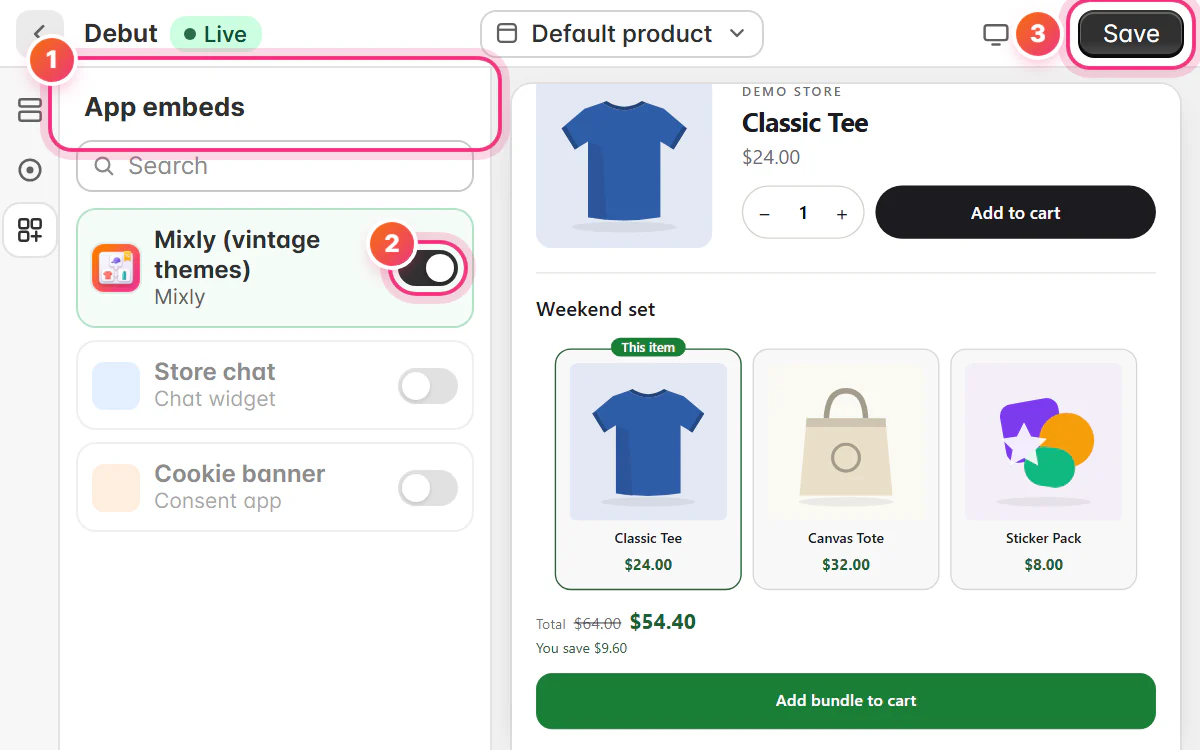
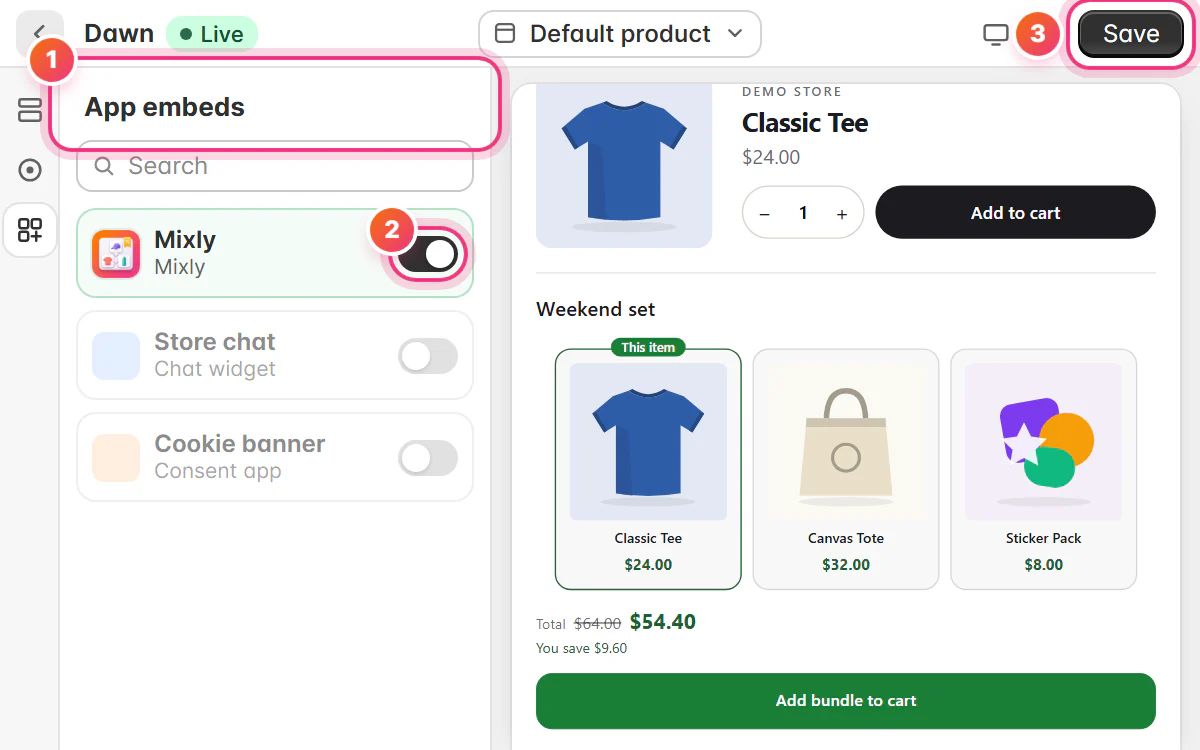
teach mixly and tierly docs that one app embed now covers every theme
Both apps replaced their vintage-only embed with an embed named after the app that works on every theme. The docs now lead with that switch and treat app blocks as optional. The embed guide animations are redrawn on Dawn with the new names.

diff --git a/src/app/tierly/docs/page.tsx b/src/app/tierly/docs/page.tsx
@@ -86,29 +86,29 @@ const steps = [
 
 const setupPaths = [
   {
+    icon: SlidersIcon,
+    badge: 'Recommended',
+    title: 'Turn on the Tierly app embed',
+    note: 'One switch, every theme — Dawn, Horizon, older vintage themes and heavily customised builds alike.',
+    steps: [
+      'On your Tierly dashboard, click Turn on Tierly. The theme editor opens on App embeds with Tierly already switched on.',
+      'Click Save. The price table shows above the Add to cart button on product pages, and the cart upsell below your items on the cart page.',
+      'Use the Show on product pages and Show on the cart page switches to choose where Tierly appears.',
+      'If it lands in the wrong place, set the Product page and Cart page CSS selectors under Placement — .product-form and .cart__footer are typical.',
+      'To hide Tierly from your store, switch the embed off and save. Pause an offer in Tierly to stop its discount too.',
+    ],
+  },
+  {
     icon: LayersIcon,
-    badge: 'Most themes',
-    title: 'Online Store 2.0 themes',
-    note: 'Dawn, Refresh, Sense, and almost every theme sold since 2021.',
+    badge: 'Optional',
+    title: 'Place an app block yourself',
+    note: 'For an exact spot on an Online Store 2.0 theme. The embed steps aside on any page that has a Tierly block.',
     steps: [
       'In your Shopify admin go to Online Store → Themes → Customize.',
       'Switch the top template selector to Products → Default product.',
       'Click Add block in the product information area, open the Apps group, and pick Tierly price table.',
       'Drag it where you want it — just under the quantity selector works well — then Save.',
       'Optional: on the Cart template, add the Tierly cart upsell block to nudge shoppers who are one unit away from the next tier.',
-    ],
-  },
-  {
-    icon: SlidersIcon,
-    badge: 'Vintage themes',
-    title: 'Online Store 1.0 themes',
-    note: 'Older themes such as Debut, Brooklyn, or a heavily customised build that cannot host app blocks.',
-    steps: [
-      'Go to Online Store → Themes → Customize.',
-      'Open App embeds in the left sidebar.',
-      'Toggle on Tierly (vintage themes), then Save.',
-      'The price table is inserted into your product and cart pages automatically — there is no block to position.',
-      'If the table lands in the wrong place, set the Product page and Cart page CSS selectors under Placement — .product-form and .cart__footer are typical. Leave them blank to auto-detect.',
     ],
   },
 ]
@@ -146,7 +146,7 @@ const blockSettings: { title: string; text: ReactNode }[] = [
   },
   {
     title: 'Clickable tiers',
-    text: 'On by default: clicking a tier sets the quantity field to that tier minimum, so a shopper reaches the saving in one tap. Turn it off if your theme uses an unusual quantity input. It applies to the price table and the vintage embed — the cart upsell has no equivalent.',
+    text: 'On by default: clicking a tier sets the quantity field to that tier minimum, so a shopper reaches the saving in one tap. Turn it off if your theme uses an unusual quantity input. It applies to the price table, whether it comes from the app embed or the block — the cart upsell has no equivalent.',
   },
   {
     title: '“Ends in” countdown',
@@ -223,11 +223,11 @@ const faqs: { q: string; a: ReactNode }[] = [
   },
   {
     q: 'The block is on my product page but shows nothing',
-    a: 'In the theme editor — and only there, never for shoppers — Tierly prints the reason it rendered nothing, so you rarely have to guess. It will tell you that no pricing rules have been published to the store yet, that this product has no rule of its own and no store-wide rule covers it, that the product is excluded from your store-wide rule, that the end date has already passed, or that the tiers cannot be shown in the currency the storefront is currently displaying. On a vintage theme it also reports when it could not read the product on the page, when every tier works out at or above the current price, and when the page is neither a product nor a cart page.',
+    a: 'In the theme editor — and only there, never for shoppers — Tierly prints the reason it rendered nothing, so you rarely have to guess. It will tell you that no pricing rules have been published to the store yet, that this product has no rule of its own and no store-wide rule covers it, that the product is excluded from your store-wide rule, that the end date has already passed, or that the tiers cannot be shown in the currency the storefront is currently displaying. The app embed also reports when it could not read the product on the page, when every tier works out at or above the current price, and when the page is neither a product nor a cart page.',
   },
   {
-    q: 'The price table block does not appear in the theme editor',
-    a: 'App blocks only show on Online Store 2.0 themes, and only after the app is installed on the store. If the Apps group is missing when you click Add block, your theme is a vintage 1.0 theme — use the app embed route instead.',
+    q: 'I cannot find the Tierly price table block in the theme editor',
+    a: 'App blocks only show on Online Store 2.0 themes, and only after the app is installed on the store. If the Apps group is missing when you click Add block, your theme is a vintage 1.0 theme — the app embed works on it and needs no block: switch Tierly on under App embeds.',
   },
   {
     q: 'Some tiers vanish when a shopper switches currency',
@@ -256,7 +256,7 @@ const faqs: { q: string; a: ReactNode }[] = [
   },
   {
     q: 'Does Tierly slow my storefront down?',
-    a: 'It depends which path your theme uses, and neither one blocks the page. On an Online Store 2.0 theme the price table block is rendered server-side in Liquid, so it arrives with the rest of the page and causes no layout shift. On a vintage theme the app embed loads a small deferred script that reads your product and cart JSON after the page has painted, so the table appears a moment after everything else. Either way there is no blocking third-party script on your product pages.',
+    a: 'It depends which path you use, and neither one blocks the page. The price table block is rendered server-side in Liquid, so it arrives with the rest of the page and causes no layout shift. The app embed loads a small deferred script that reads your product and cart JSON after the page has painted, so the table appears a moment after everything else. Either way there is no blocking third-party script on your product pages.',
   },
   {
     q: 'What happens to my discounts if I uninstall the app?',
@@ -435,8 +435,8 @@ const TierlyDocsPage = () => (
         <Section
           id="setup"
           eyebrow="Setup"
-          title="Add it to your theme"
-          lead="Installing the app is enough for discounts to apply at checkout. Adding the block is what makes the savings visible on the product page — and that is where the extra units come from. The Finish setup checklist on your dashboard has an “Add it for me” button that opens the theme editor in the right place, and the Store health card afterwards tells you whether the block is on your published theme."
+          title="Turn it on in your theme"
+          lead="Installing the app is enough for discounts to apply at checkout. Turning Tierly on in your theme is what makes the savings visible on the product page — and that is where the extra units come from. The Finish setup checklist on your dashboard has a “Turn on Tierly” button that opens the theme editor on App embeds, and the Store health card afterwards tells you whether Tierly is on in your published theme."
         >
           <div className="grid gap-4 md:grid-cols-2">
             {setupPaths.map(({ icon: Icon, badge, title, note, steps }) => (
@@ -467,29 +467,22 @@ const TierlyDocsPage = () => (
 
           <Figure
             className="mt-8"
-            src="/guides/tierly/theme-editor.webp"
+            src="/guides/tierly/theme-embed.webp"
             width={1200}
             height={750}
-            alt="The setup guide step Add the price table to your product page, whose Add it for me button opens the theme editor on the Default product template with the Tierly price table already added. The cursor drags the block under Price, the quantity breaks move under the price in the preview, then the cursor clicks Save."
-            caption="On an Online Store 2.0 theme: Add block, Apps, Tierly price table, then Save."
+            alt="The setup guide step Turn on Tierly in your theme. Its Turn on Tierly button opens the theme editor on App embeds, the cursor switches on Tierly, and the quantity breaks appear on the product page in the preview. Then it clicks Save."
+            caption="One switch under App embeds turns Tierly on for product and cart pages. The preview shows the price table as soon as it is on."
           />
 
           <Figure
             className="mt-6"
-            src="/guides/tierly/theme-embed.webp"
+            src="/guides/tierly/theme-editor.webp"
             width={1200}
             height={750}
-            alt="The setup guide step Turn on the Tierly app embed on a vintage theme. Its Turn on the embed button opens the theme editor on App embeds, the cursor switches on Tierly (vintage themes), and the quantity breaks appear on the product page in the preview."
-            caption="On a vintage theme: switch on Tierly (vintage themes) under App embeds, then save."
+            alt="The cursor drags the Tierly price table block under Price on the Default product template, the quantity breaks move under the price in the preview, then the cursor clicks Save."
+            caption="Optional, on an Online Store 2.0 theme: Add block, Apps, Tierly price table, then Save — for when you want the table in an exact spot."
           />
 
-          <div className="mt-4">
-            <Callout tone="warn" title="Enable one path, not both">
-              On an Online Store 2.0 theme, use the app blocks. The vintage embed exists for themes
-              that cannot host them. If both end up switched on, Tierly suppresses the embed so
-              nothing renders twice.
-            </Callout>
-          </div>
         </Section>
 
         <Section

diff --git a/src/app/mixly/docs/page.tsx b/src/app/mixly/docs/page.tsx
@@ -132,30 +132,29 @@ const discountModes = [
 
 const setupPaths = [
   {
+    icon: SlidersIcon,
+    badge: 'Recommended',
+    title: 'Turn on the Mixly app embed',
+    note: 'One switch, every theme — Dawn, Horizon, older vintage themes and heavily customised builds alike.',
+    steps: [
+      'On your Mixly home screen, click Turn on in theme editor. The theme editor opens on App embeds with Mixly already switched on.',
+      'Click Save. Bundles now show below the Add to cart button on product pages, and below your items on the cart page.',
+      'Use the Show on product pages and Show on the cart page switches to choose where Mixly appears.',
+      'If it lands in the wrong place, put a CSS selector in Product page: CSS selector to insert after (for example .product-form) or the matching Cart page field (for example .cart__footer).',
+      'To hide Mixly from your store, switch the embed off and save. Pause a bundle in Mixly to stop its discount too.',
+    ],
+  },
+  {
     icon: LayersIcon,
-    badge: 'Most themes',
-    title: 'Online Store 2.0 themes',
-    note: 'Dawn, Refresh, Sense, and almost every theme sold since 2021.',
+    badge: 'Optional',
+    title: 'Place an app block yourself',
+    note: 'For an exact spot on an Online Store 2.0 theme. The embed steps aside on any page that has a Mixly block.',
     steps: [
       'In your Shopify admin go to Online Store → Themes → Customize.',
       'Switch the top template selector to Products → Default product.',
       'Click Add block in the product information area, open the Apps group, and pick Mixly bundle offer.',
-      'Drag it where you want it — just under the add-to-cart button works well — then Save.',
+      'Drag it where you want it, then Save.',
       'Optional: switch the template selector to Cart, add the Mixly cart bundle block, and set Maximum offers to show (1 to 3, two by default).',
-    ],
-  },
-  {
-    icon: SlidersIcon,
-    badge: 'Vintage themes',
-    title: 'Online Store 1.0 themes',
-    note: 'Older themes such as Debut or Brooklyn, and heavily customised builds that cannot host app blocks.',
-    steps: [
-      'Go to Online Store → Themes → Customize.',
-      'Open App embeds in the left sidebar.',
-      'Toggle on Mixly (vintage themes), then Save.',
-      'Mixly inserts itself after your add-to-cart form and your cart form automatically — there is no block to position.',
-      'If it lands in the wrong place, put a CSS selector in Product page: CSS selector to insert after (for example .product-form) or the matching Cart page field (for example .cart__footer).',
-      'Leaving the embed on while you switch to a newer theme is safe: it hides itself on any page where a Mixly app block is already rendering.',
     ],
   },
 ]
@@ -253,7 +252,6 @@ const blockReasons = [
   'Cart is empty. Add a product to preview this.',
   'No live bundle applies to this cart.',
   'Shows on product and cart pages only.',
-  'Buy X get Y shows on the product page, not the cart, on vintage themes.',
 ]
 
 const stackingSettings: { label: string; state: 'On' | 'Off'; text: string }[] = [
@@ -576,8 +574,8 @@ const MixlyDocsPage = () => (
         <Section
           id="setup"
           eyebrow="Setup"
-          title="Add it to your theme"
-          lead="Activating a bundle is enough for the discount to apply at checkout. Adding the block is what makes the offer visible before the cart — and that is where the extra items come from."
+          title="Turn it on in your theme"
+          lead="Activating a bundle is enough for the discount to apply at checkout. Turning Mixly on in your theme is what makes the offer visible before the cart — and that is where the extra items come from."
         >
           <div className="grid gap-4 md:grid-cols-2">
             {setupPaths.map(({ icon: Icon, badge, title, note, steps }) => (
@@ -608,47 +606,29 @@ const MixlyDocsPage = () => (
 
           <Figure
             className="mt-8"
-            src="/guides/mixly/theme-editor.webp"
+            src="/guides/mixly/theme-embed.webp"
             width={1200}
             height={750}
-            alt="The setup guide step Add Mixly to your product page, whose Open theme editor button opens the theme editor on the Default product template. The cursor clicks Add block under Product information, picks Mixly bundle offer from the Apps list, and the bundle appears on the product page in the preview. Then it clicks Save."
-            caption="On an Online Store 2.0 theme: Add block, Apps, Mixly bundle offer, then Save. The preview shows the offer as soon as the block is added."
+            alt="The setup guide step Turn on Mixly in your theme. Its button opens the theme editor on App embeds, the cursor switches on Mixly, and the bundle offer appears on the product page in the preview. Then it clicks Save."
+            caption="One switch under App embeds turns Mixly on for product and cart pages. The preview shows the offer as soon as it is on."
           />
 
           <Figure
             className="mt-6"
-            src="/guides/mixly/theme-embed.webp"
+            src="/guides/mixly/theme-editor.webp"
             width={1200}
             height={750}
-            alt="The setup guide step Turn on the Mixly embed on a vintage theme. Its button opens the theme editor on App embeds, the cursor switches on Mixly (vintage themes), and the bundle offer appears on the product page in the preview."
-            caption="On a vintage theme the offer comes from an app embed instead: switch on Mixly (vintage themes) under App embeds, then save."
+            alt="The cursor clicks Add block under Product information on the Default product template, picks Mixly bundle offer from the Apps list, and the bundle appears on the product page in the preview. Then it clicks Save."
+            caption="Optional, on an Online Store 2.0 theme: Add block, Apps, Mixly bundle offer, then Save — for when you want the offer in an exact spot."
           />
 
           <div className="mt-6 space-y-4">
             <Callout tone="warn" title="Cart drawers are not supported">
-              The cart bundle block is enabled on the{' '}
-              <strong className="font-semibold text-foreground">Cart page template only</strong>. If
-              your theme opens a slide-out drawer instead of navigating to a cart page, shoppers
-              will not see it. Your product-page block and your checkout discount are unaffected —
-              only the cart-side nudge goes missing.
-            </Callout>
-
-            <Callout title="On a vintage theme, Buy X get Y is product-page only">
-              The vintage embed covers all three bundle types on the product page, but its cart
-              nudge only handles Frequently bought together and Mix &amp; match. Mixly says as much
-              in the theme editor:{' '}
-              <em>Buy X get Y shows on the product page, not the cart, on vintage themes.</em>
-            </Callout>
-
-            <Callout title="Step 3 of the setup checklist never ticks on a vintage theme">
-              The <strong className="font-semibold text-foreground">Finish setup</strong> checklist
-              on your Mixly home screen has four steps, and step 3 —{' '}
-              <em>Add Mixly to your product page</em> — checks for exactly one thing: the{' '}
-              <strong className="font-semibold text-foreground">Mixly bundle offer</strong> app
-              block being active on your theme. The vintage app embed is a different extension, so
-              it does not count towards it. If you are on a vintage theme, expect step 3 to sit
-              unticked forever even though everything is working. Trust step 4 instead — a real
-              cart, with the discount showing at checkout — then dismiss the checklist.
+              Mixly shows on the{' '}
+              <strong className="font-semibold text-foreground">cart page only</strong>. If your
+              theme opens a slide-out drawer instead of navigating to a cart page, shoppers will not
+              see the cart nudge there. Your product-page offer and your checkout discount are
+              unaffected — only the cart-side nudge goes missing.
             </Callout>
           </div>
         </Section>
